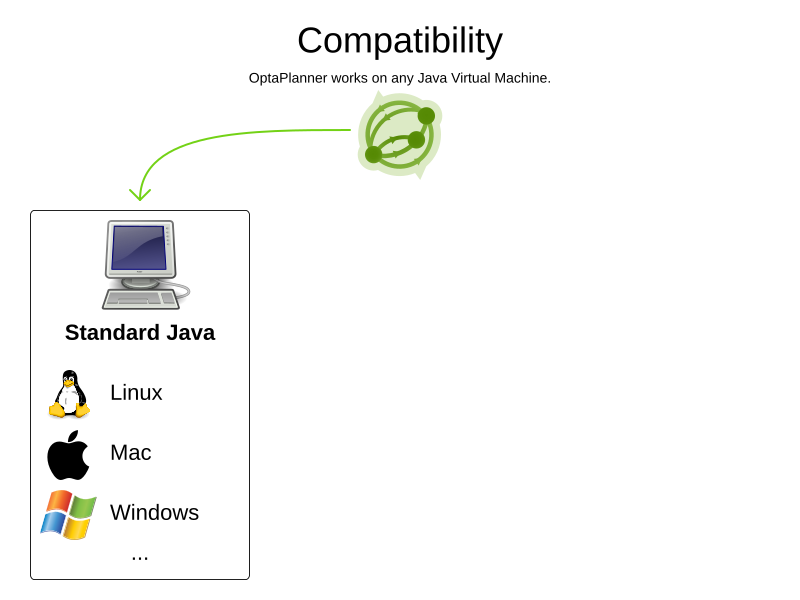
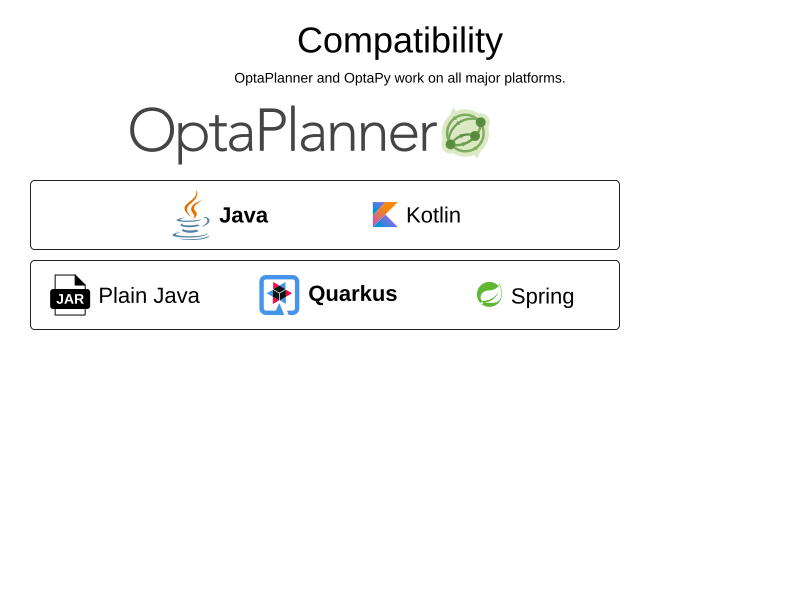
Compatibility diagram: update to 2022

diff --git a/optaplanner-website-root/assets/learn/slides/optaplanner-presentation/index.html b/optaplanner-website-root/assets/learn/slides/optaplanner-presentation/index.html
@@ -321,6 +321,8 @@
             <img src="PlannerIntroduction/compatibility_1.png" class="fullImage fragment">
             <img src="PlannerIntroduction/compatibility_2.png" class="fullImage fragment">
             <img src="PlannerIntroduction/compatibility_3.png" class="fullImage fragment">
+            <img src="PlannerIntroduction/compatibility_4.png" class="fullImage fragment">
+            <img src="PlannerIntroduction/compatibility_5.png" class="fullImage fragment">
         </section>
         <section>
             <h2>Is this A.I.?</h2>

diff --git a/optaplanner-website-root/assets/learn/slides/optaplanner-presentation/training.html b/optaplanner-website-root/assets/learn/slides/optaplanner-presentation/training.html
@@ -414,6 +414,8 @@
             <img src="PlannerIntroduction/compatibility_1.png" class="fullImage fragment">
             <img src="PlannerIntroduction/compatibility_2.png" class="fullImage fragment">
             <img src="PlannerIntroduction/compatibility_3.png" class="fullImage fragment">
+            <img src="PlannerIntroduction/compatibility_4.png" class="fullImage fragment">
+            <img src="PlannerIntroduction/compatibility_5.png" class="fullImage fragment">
         </section>
 
         <section>
